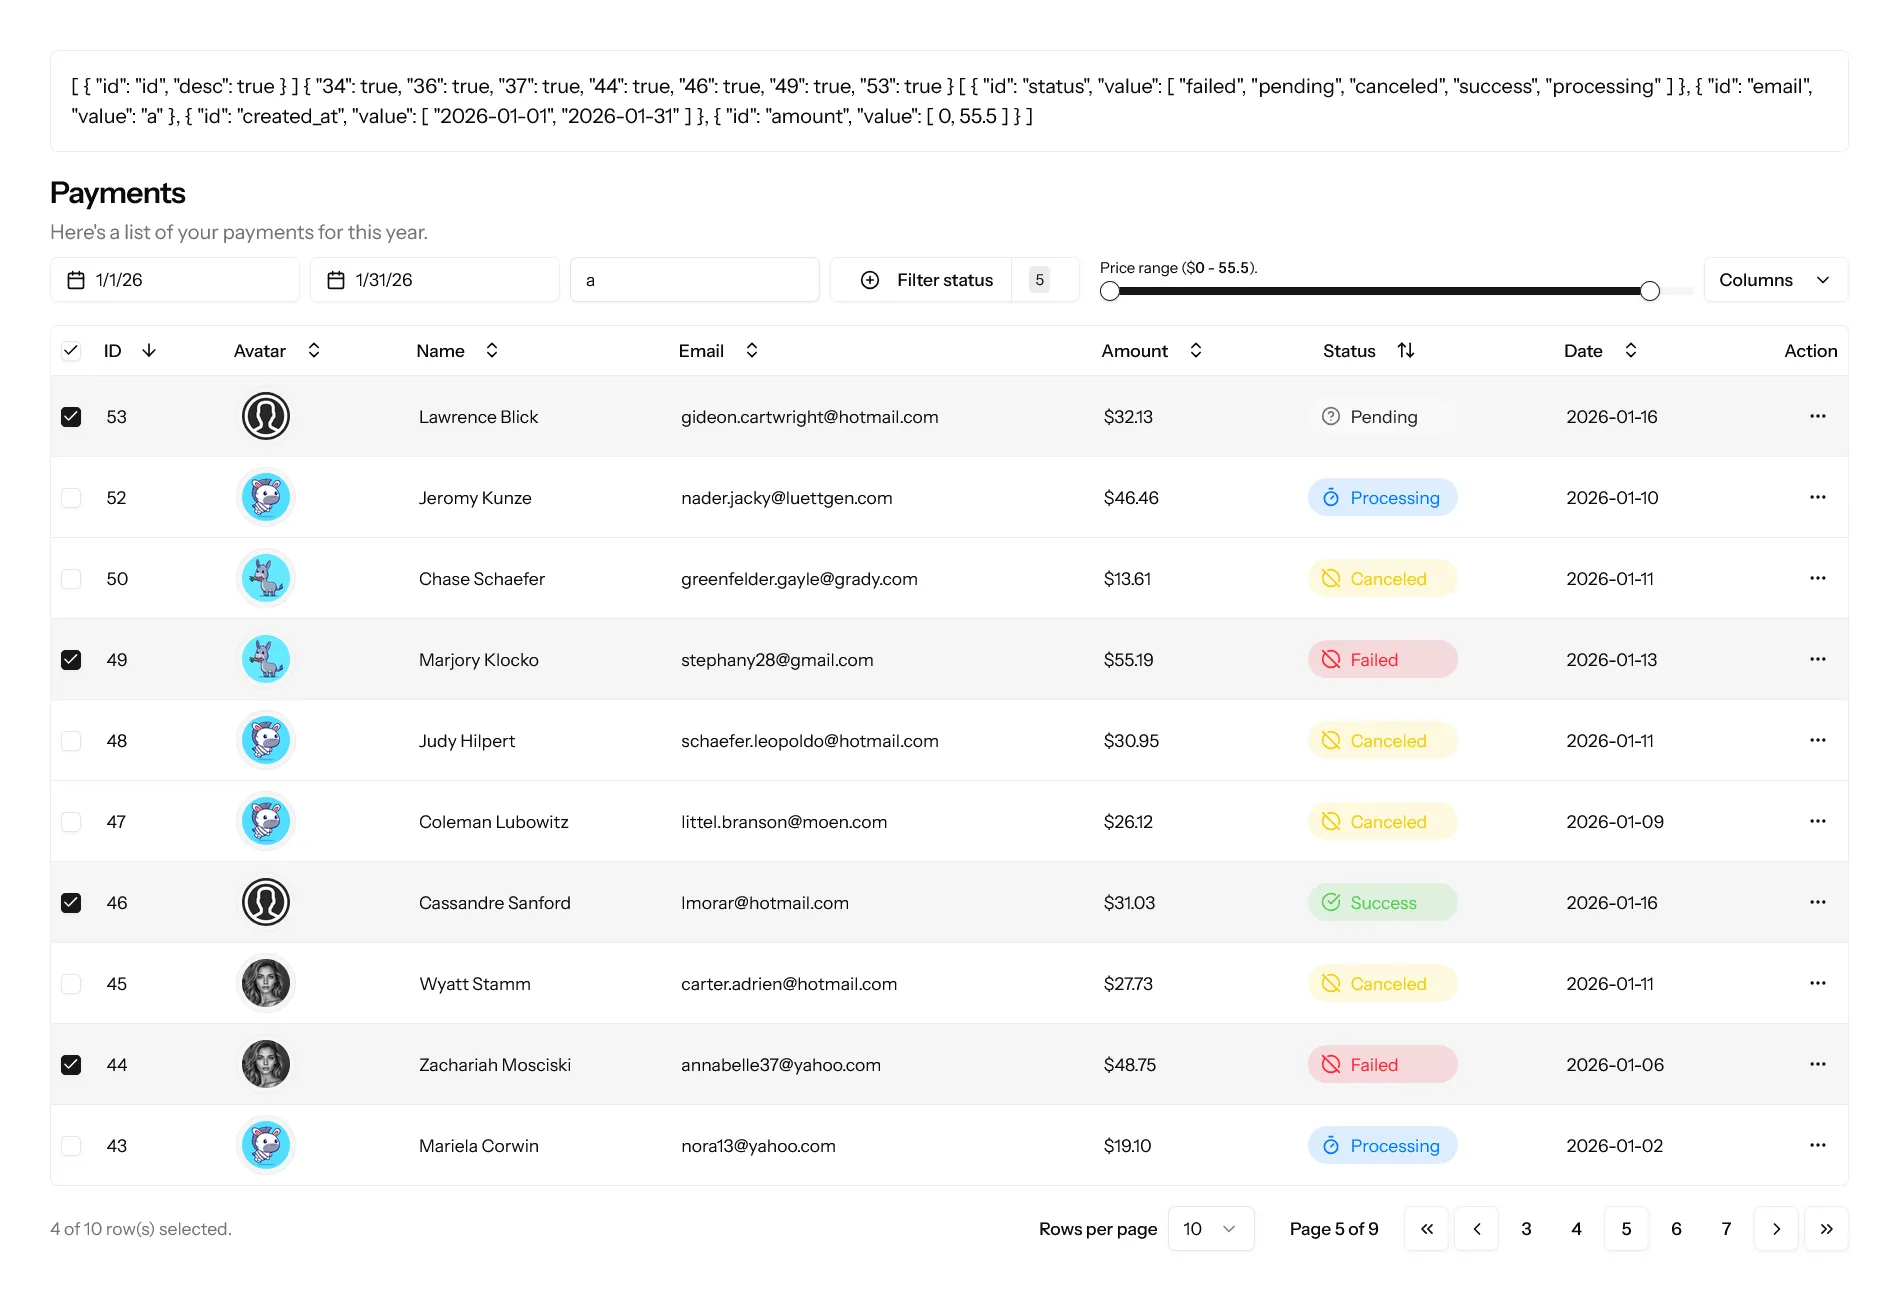
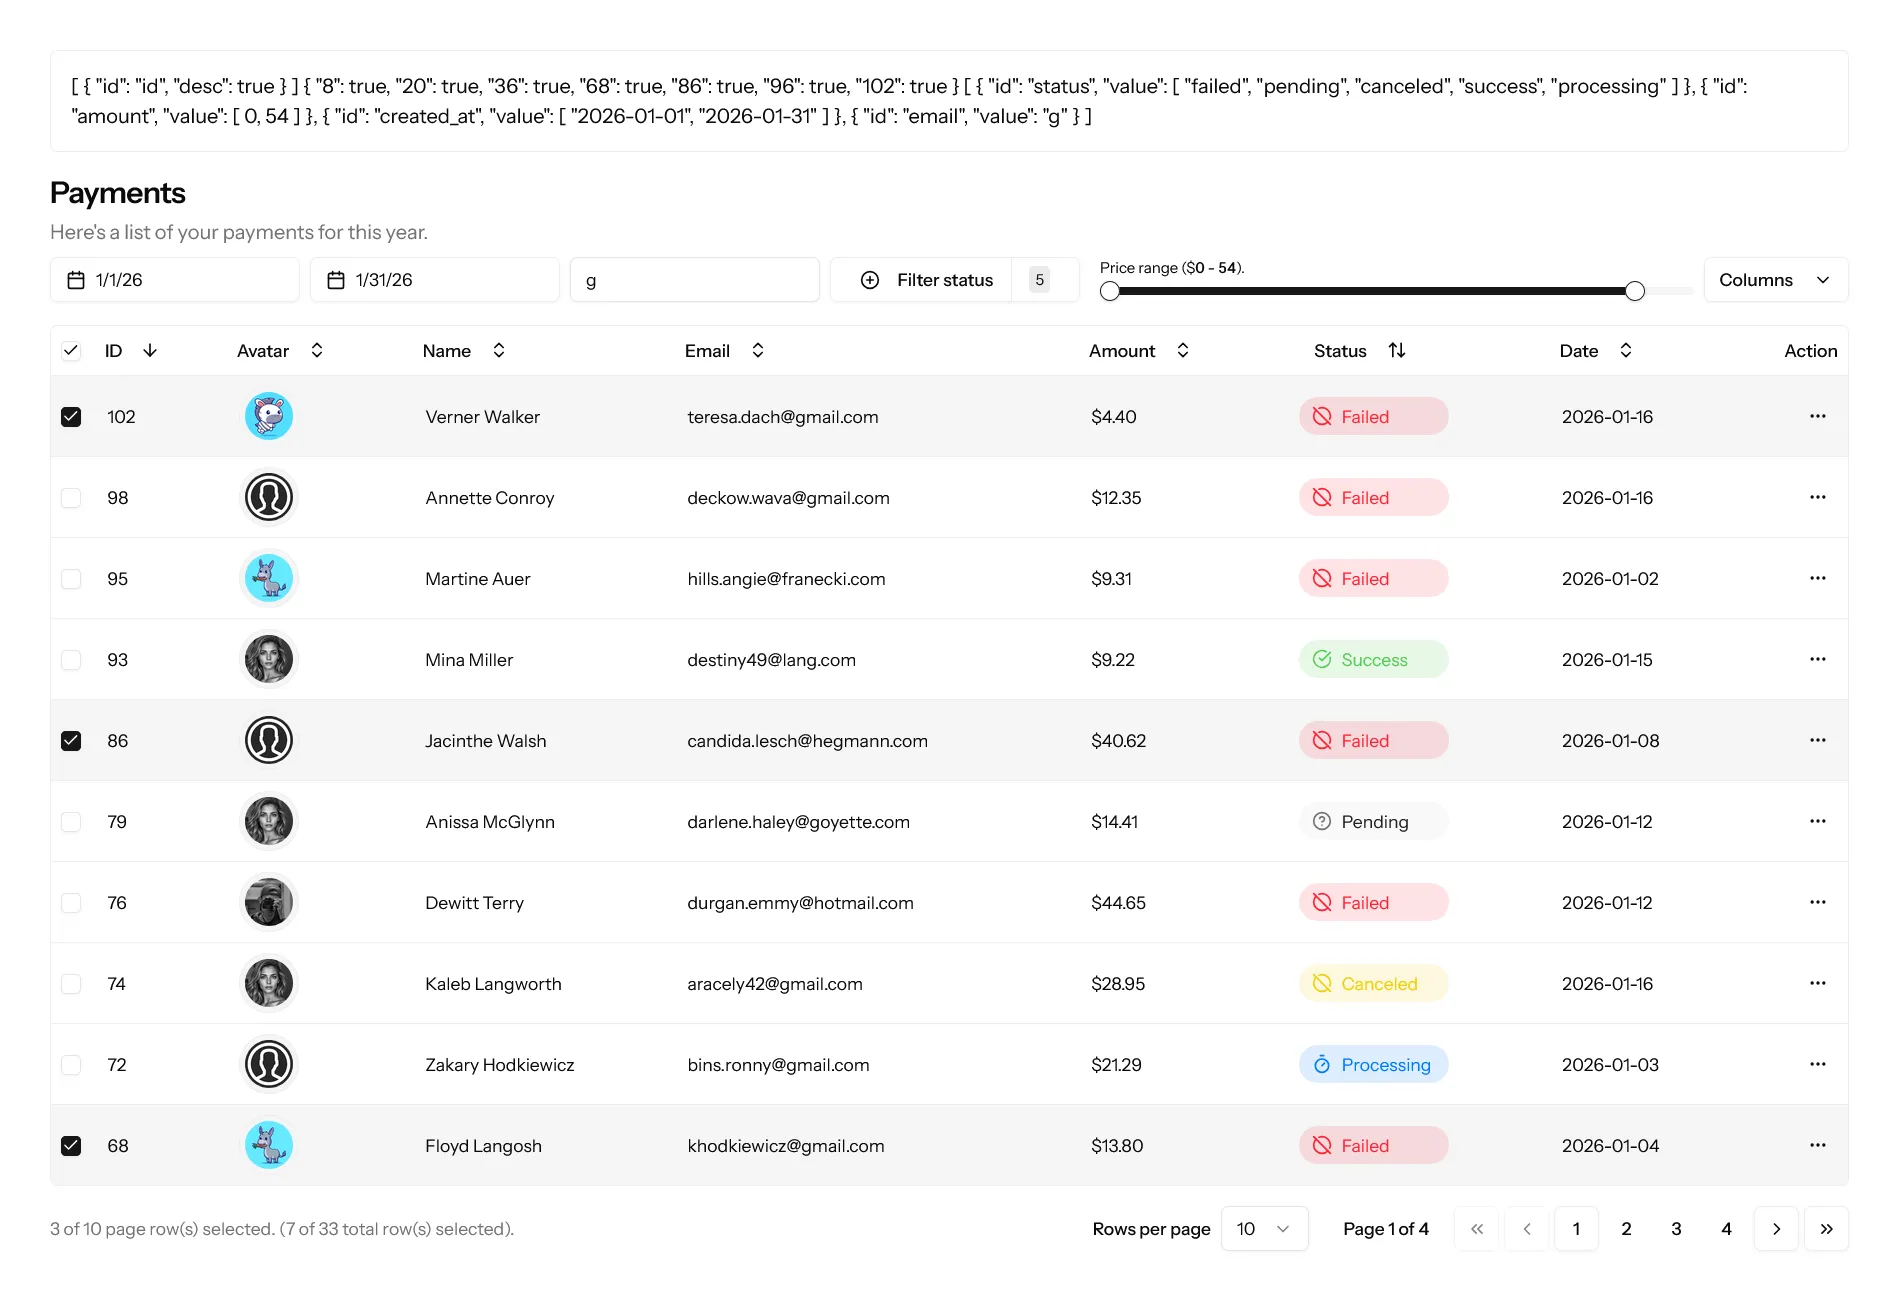
Pagination numbers

diff --git a/resources/js/pages/Payments/Index.vue b/resources/js/pages/Payments/Index.vue
@@ -108,16 +108,19 @@ const table = useVueTable({
   	getFacetedUniqueValues: getFacetedUniqueValues(),
   	getFacetedMinMaxValues: getFacetedMinMaxValues(),
 	getPaginationRowModel: getPaginationRowModel(), // Not required here
+	onExpandedChange: (updaterOrValue) => valueUpdater(updaterOrValue, expanded),
 	onColumnVisibilityChange: (updaterOrValue) => valueUpdater(updaterOrValue, columnVisibility),
 	onRowSelectionChange: (updaterOrValue) => valueUpdater(updaterOrValue, rowSelection),
-	onExpandedChange: (updaterOrValue) => valueUpdater(updaterOrValue, expanded),
 	// Throttle or debounce requests
 	onColumnFiltersChange: throttle((updaterOrValue) => {
 		columnFilters.value = typeof updaterOrValue === 'function' ? updaterOrValue(columnFilters.value) : updaterOrValue;
+
 		// Refresh data amd move to first page
 		table.resetPageIndex()
-		// Reset selection
-		rowSelection.value = {}
+
+		// Reset selection after filtering
+		// rowSelection.value = {}
+
 		// console.log(filters, table.getRowCount(), table.getPageCount(), props.data?.last_page, table.getState().pagination.pageIndex);
 	}, 600),
 	onSortingChange: throttle((updaterOrValue) => {
